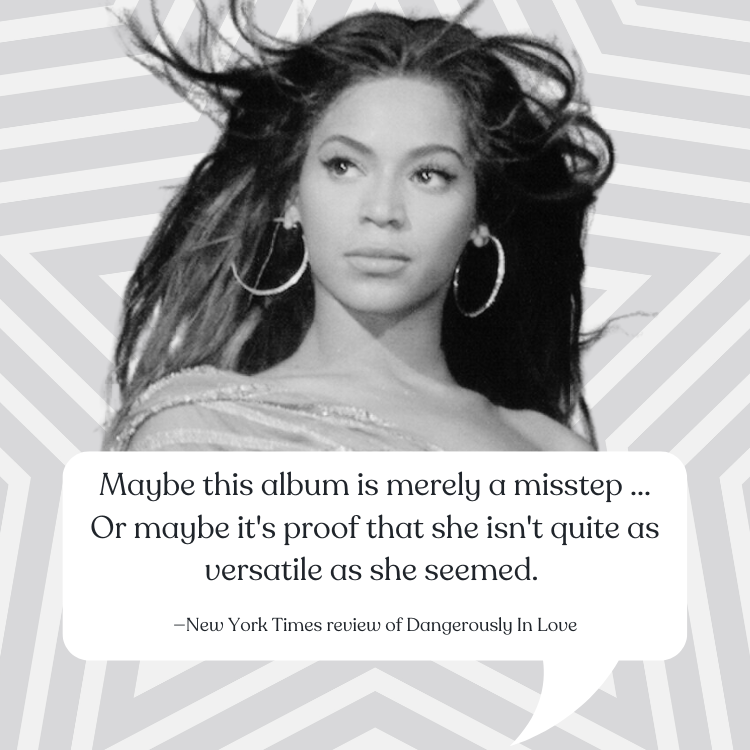
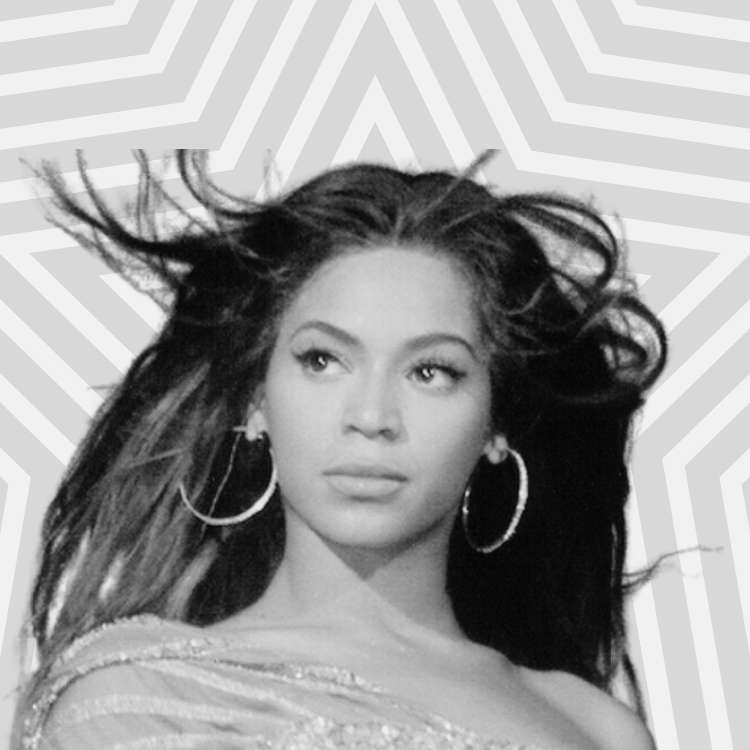
update some images

diff --git a/_posts/2023-05-17-emily-dickinson.md b/_posts/2023-05-17-emily-dickinson.md
@@ -3,7 +3,7 @@ layout: post
 title:  "Emily Dickinson"
 rating: 1
 categories: [ literature, poetry ]
-image: assets/images/emily-dickinson.jpeg
+image: assets/images/emily-dickinson.png
 featured: false
 ---
 

diff --git a/_posts/2023-05-09-jimi-hendrix.md b/_posts/2023-05-09-jimi-hendrix.md
@@ -3,7 +3,7 @@ layout: post
 title:  "Jimi Hendrix"
 rating: 1
 categories: [ music ]
-image: assets/images/are-you-experienced.jpeg
+image: assets/images/jimi-hendrix.png
 featured: true
 ---
 

diff --git a/_posts/2023-05-10-jim-carrey.md b/_posts/2023-05-10-jim-carrey.md
@@ -3,7 +3,7 @@ layout: post
 title:  "Jim Carrey"
 rating: 1
 categories: [ acting ]
-image: assets/images/gene-siskel.png
+image: assets/images/jim-carrey.png
 featured: true
 ---
 
